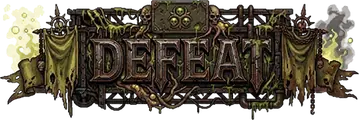
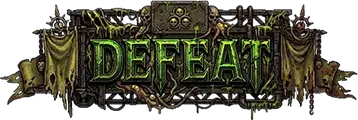
Game: updated loss.webp art

diff --git a/docs/index.html b/docs/index.html
@@ -934,7 +934,7 @@
   function attachGame(d) {
     gameLoading ??= new Promise((ok) => {
       const s = document.createElement('script');
-      s.src = 'game.js?v=10';
+      s.src = 'game.js?v=11';
       s.onload = ok;
       document.head.appendChild(s);
     });
